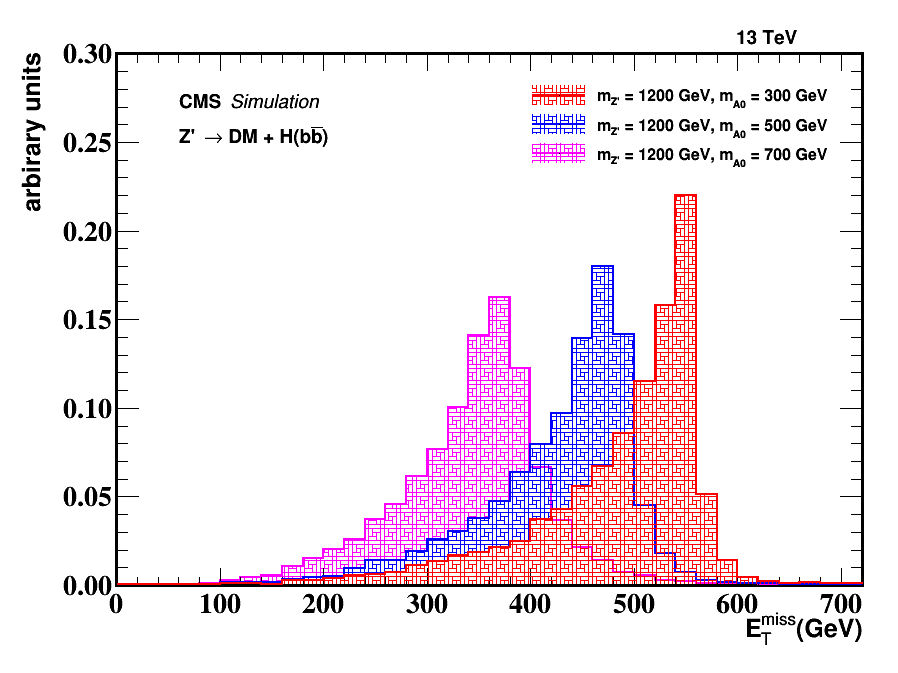
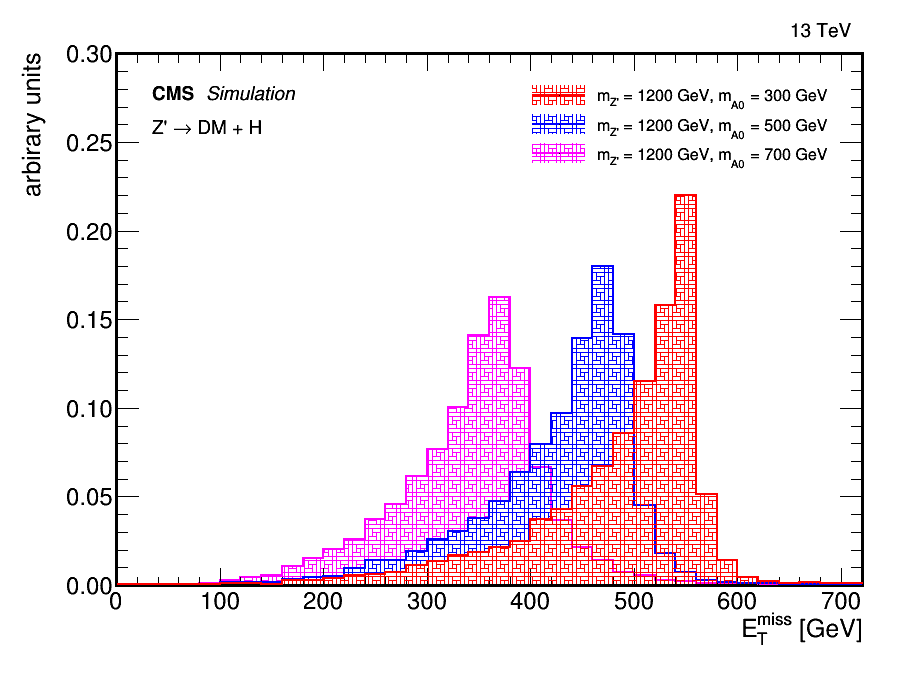
modify text size and font

diff --git a/gz0_8mzp1200mx100/plot.C b/gz0_8mzp1200mx100/plot.C
@@ -82,12 +82,12 @@ void plot()
     //h_A0m5->SetLineColor(5);
     //h_A0m6->SetFillColor(81);
 
-    h_A0m1->GetXaxis()->SetTitleFont(22);
-    h_A0m1->GetYaxis()->SetTitleFont(22);
-    h_A0m2->GetXaxis()->SetLabelFont(22);
-    h_A0m2->GetYaxis()->SetLabelFont(22);
-    h_A0m3->GetXaxis()->SetLabelFont(22);
-    h_A0m3->GetYaxis()->SetLabelFont(22);
+    h_A0m1->GetXaxis()->SetTitleFont(42);
+    h_A0m1->GetYaxis()->SetTitleFont(42);
+    h_A0m2->GetXaxis()->SetTitleFont(42);
+    h_A0m2->GetYaxis()->SetTitleFont(42);
+    h_A0m3->GetXaxis()->SetTitleFont(42);
+    h_A0m3->GetYaxis()->SetTitleFont(42);
     //h_A0m4->GetXaxis()->SetLabelFont(22);
     //h_A0m4->GetYaxis()->SetLabelFont(22);
     //h_A0m5->GetXaxis()->SetLabelFont(22);
@@ -95,12 +95,20 @@ void plot()
     //h_A0m6->GetXaxis()->SetLabelFont(22);
     //h_A0m6->GetYaxis()->SetLabelFont(22);
 
-    h_A0m1->GetXaxis()->SetTitleSize(0.045);
-    h_A0m1->GetYaxis()->SetTitleSize(0.045);  
-    h_A0m2->GetXaxis()->SetLabelSize(0.045);
-    h_A0m2->GetYaxis()->SetLabelSize(0.045);
-    h_A0m3->GetXaxis()->SetLabelSize(0.045);
-    h_A0m3->GetYaxis()->SetLabelSize(0.045);
+    h_A0m1->GetXaxis()->SetLabelFont(42);
+    h_A0m1->GetYaxis()->SetLabelFont(42);
+    h_A0m2->GetXaxis()->SetLabelFont(42);
+    h_A0m2->GetYaxis()->SetLabelFont(42);
+    h_A0m3->GetXaxis()->SetLabelFont(42);
+    h_A0m3->GetYaxis()->SetLabelFont(42);
+
+
+    h_A0m1->GetXaxis()->SetTitleSize(0.02);
+    h_A0m1->GetYaxis()->SetTitleSize(0.02);  
+    h_A0m2->GetXaxis()->SetLabelSize(0.02);
+    h_A0m2->GetYaxis()->SetLabelSize(0.02);
+    h_A0m3->GetXaxis()->SetLabelSize(0.038);
+    h_A0m3->GetYaxis()->SetLabelSize(0.038);
     //h_A0m4->GetXaxis()->SetLabelSize(0.045);
     //h_A0m4->GetYaxis()->SetLabelSize(0.045);
     //h_A0m5->GetXaxis()->SetLabelSize(0.045);
@@ -126,10 +134,10 @@ void plot()
     // h_A0m1->GetYaxis()->SetRange(0,700);
     // h_A0m2->GetYaxis()->SetRange(0,700);
     // h_A0m3->GetYaxis()->SetRange(0,700);
-    h_A0m3->GetYaxis()->SetTitle("#bf{arbirary units}");
+    h_A0m3->GetYaxis()->SetTitle("arbirary units");
     h_A0m3->GetYaxis()->SetTitleSize(0.04);
     //h_A0m3->GetYaxis()->CenterTitle();
-    h_A0m3->GetXaxis()->SetTitle("#bf{E}_{T}^{miss}#bf{(GeV)}");
+    h_A0m3->GetXaxis()->SetTitle("E_{T}^{miss} [GeV]");
     h_A0m3->GetXaxis()->SetTitleSize(0.04);
     //h_A0m3->GetXaxis()->CenterTitle();
     h_A0m3->SetAxisRange(0,700,"X");
@@ -145,9 +153,9 @@ void plot()
     h_A0m1->Draw("histsame");
     //h_A0m6->Draw("histsame");
 
-    leg->AddEntry(h_A0m1,"#bf{m_{Z'} = 1200 GeV, m_{A0} = 300 GeV}");
-    leg->AddEntry(h_A0m2,"#bf{m_{Z'} = 1200 GeV, m_{A0} = 500 GeV}");
-    leg->AddEntry(h_A0m3,"#bf{m_{Z'} = 1200 GeV, m_{A0} = 700 GeV}");
+    leg->AddEntry(h_A0m1,"m_{Z'} = 1200 GeV, m_{A0} = 300 GeV");
+    leg->AddEntry(h_A0m2,"m_{Z'} = 1200 GeV, m_{A0} = 500 GeV");
+    leg->AddEntry(h_A0m3,"m_{Z'} = 1200 GeV, m_{A0} = 700 GeV");
     //leg->AddEntry(h_A0m4,"MZ'_600GeV,MA0_700GeV");
     //leg->AddEntry(h_A0m5,"MZ'_600GeV,MA0_800GeV");
     //leg->AddEntry(h_A0m6,"MZ'_1400GeV,DM_100GeV");
@@ -158,16 +166,18 @@ void plot()
     c1->Update();
     // Latex
     TString latexCMSname= "13 TeV";
-    TString latexCMSname2= "Z' #rightarrow DM + H(b#bar{b})";
+    TString latexCMSname2= "Z' #rightarrow DM + H";
     TString latexCMSname3= "g_{Z} = 0.8, m_{Z'} = 1200 GeV";
     TString latexCMSname4= "tan#beta = 1, m_{#chi} = 100 GeV";
-    TString latexCMSname5= "CMS #bf{#it{Simulation}}";
-    TLatex Tl; Tl.SetTextFont(62); Tl.SetTextSize(0.03); 
+    TString latexCMSname5= "#it{Simulation}";
+    TLatex Tl; Tl.SetTextFont(42); Tl.SetTextSize(0.03); 
     Tl.SetNDC(kTRUE); 
-    Tl.SetTextAlign(12);
-    Tl.DrawLatex(0.82,0.945,latexCMSname);
-    Tl.DrawLatex(0.2,0.8,latexCMSname2);
+    Tl.SetTextAlign(11);
+    Tl.DrawLatex(0.88,0.945,latexCMSname);
+    Tl.DrawLatex(0.17,0.8,latexCMSname2);
    // Tl.DrawLatex(0.2, 0.75,"m_{Z'} = 1200 GeV");
     //Tl.DrawLatex(0.2, 0.7, latexCMSname4);
-    Tl.DrawLatex(0.2, 0.85, latexCMSname5);
+    Tl.DrawLatex(0.23, 0.85, latexCMSname5);
+    Tl.SetTextFont(61);
+    Tl.DrawLatex(0.17, 0.85, "CMS");
 }
